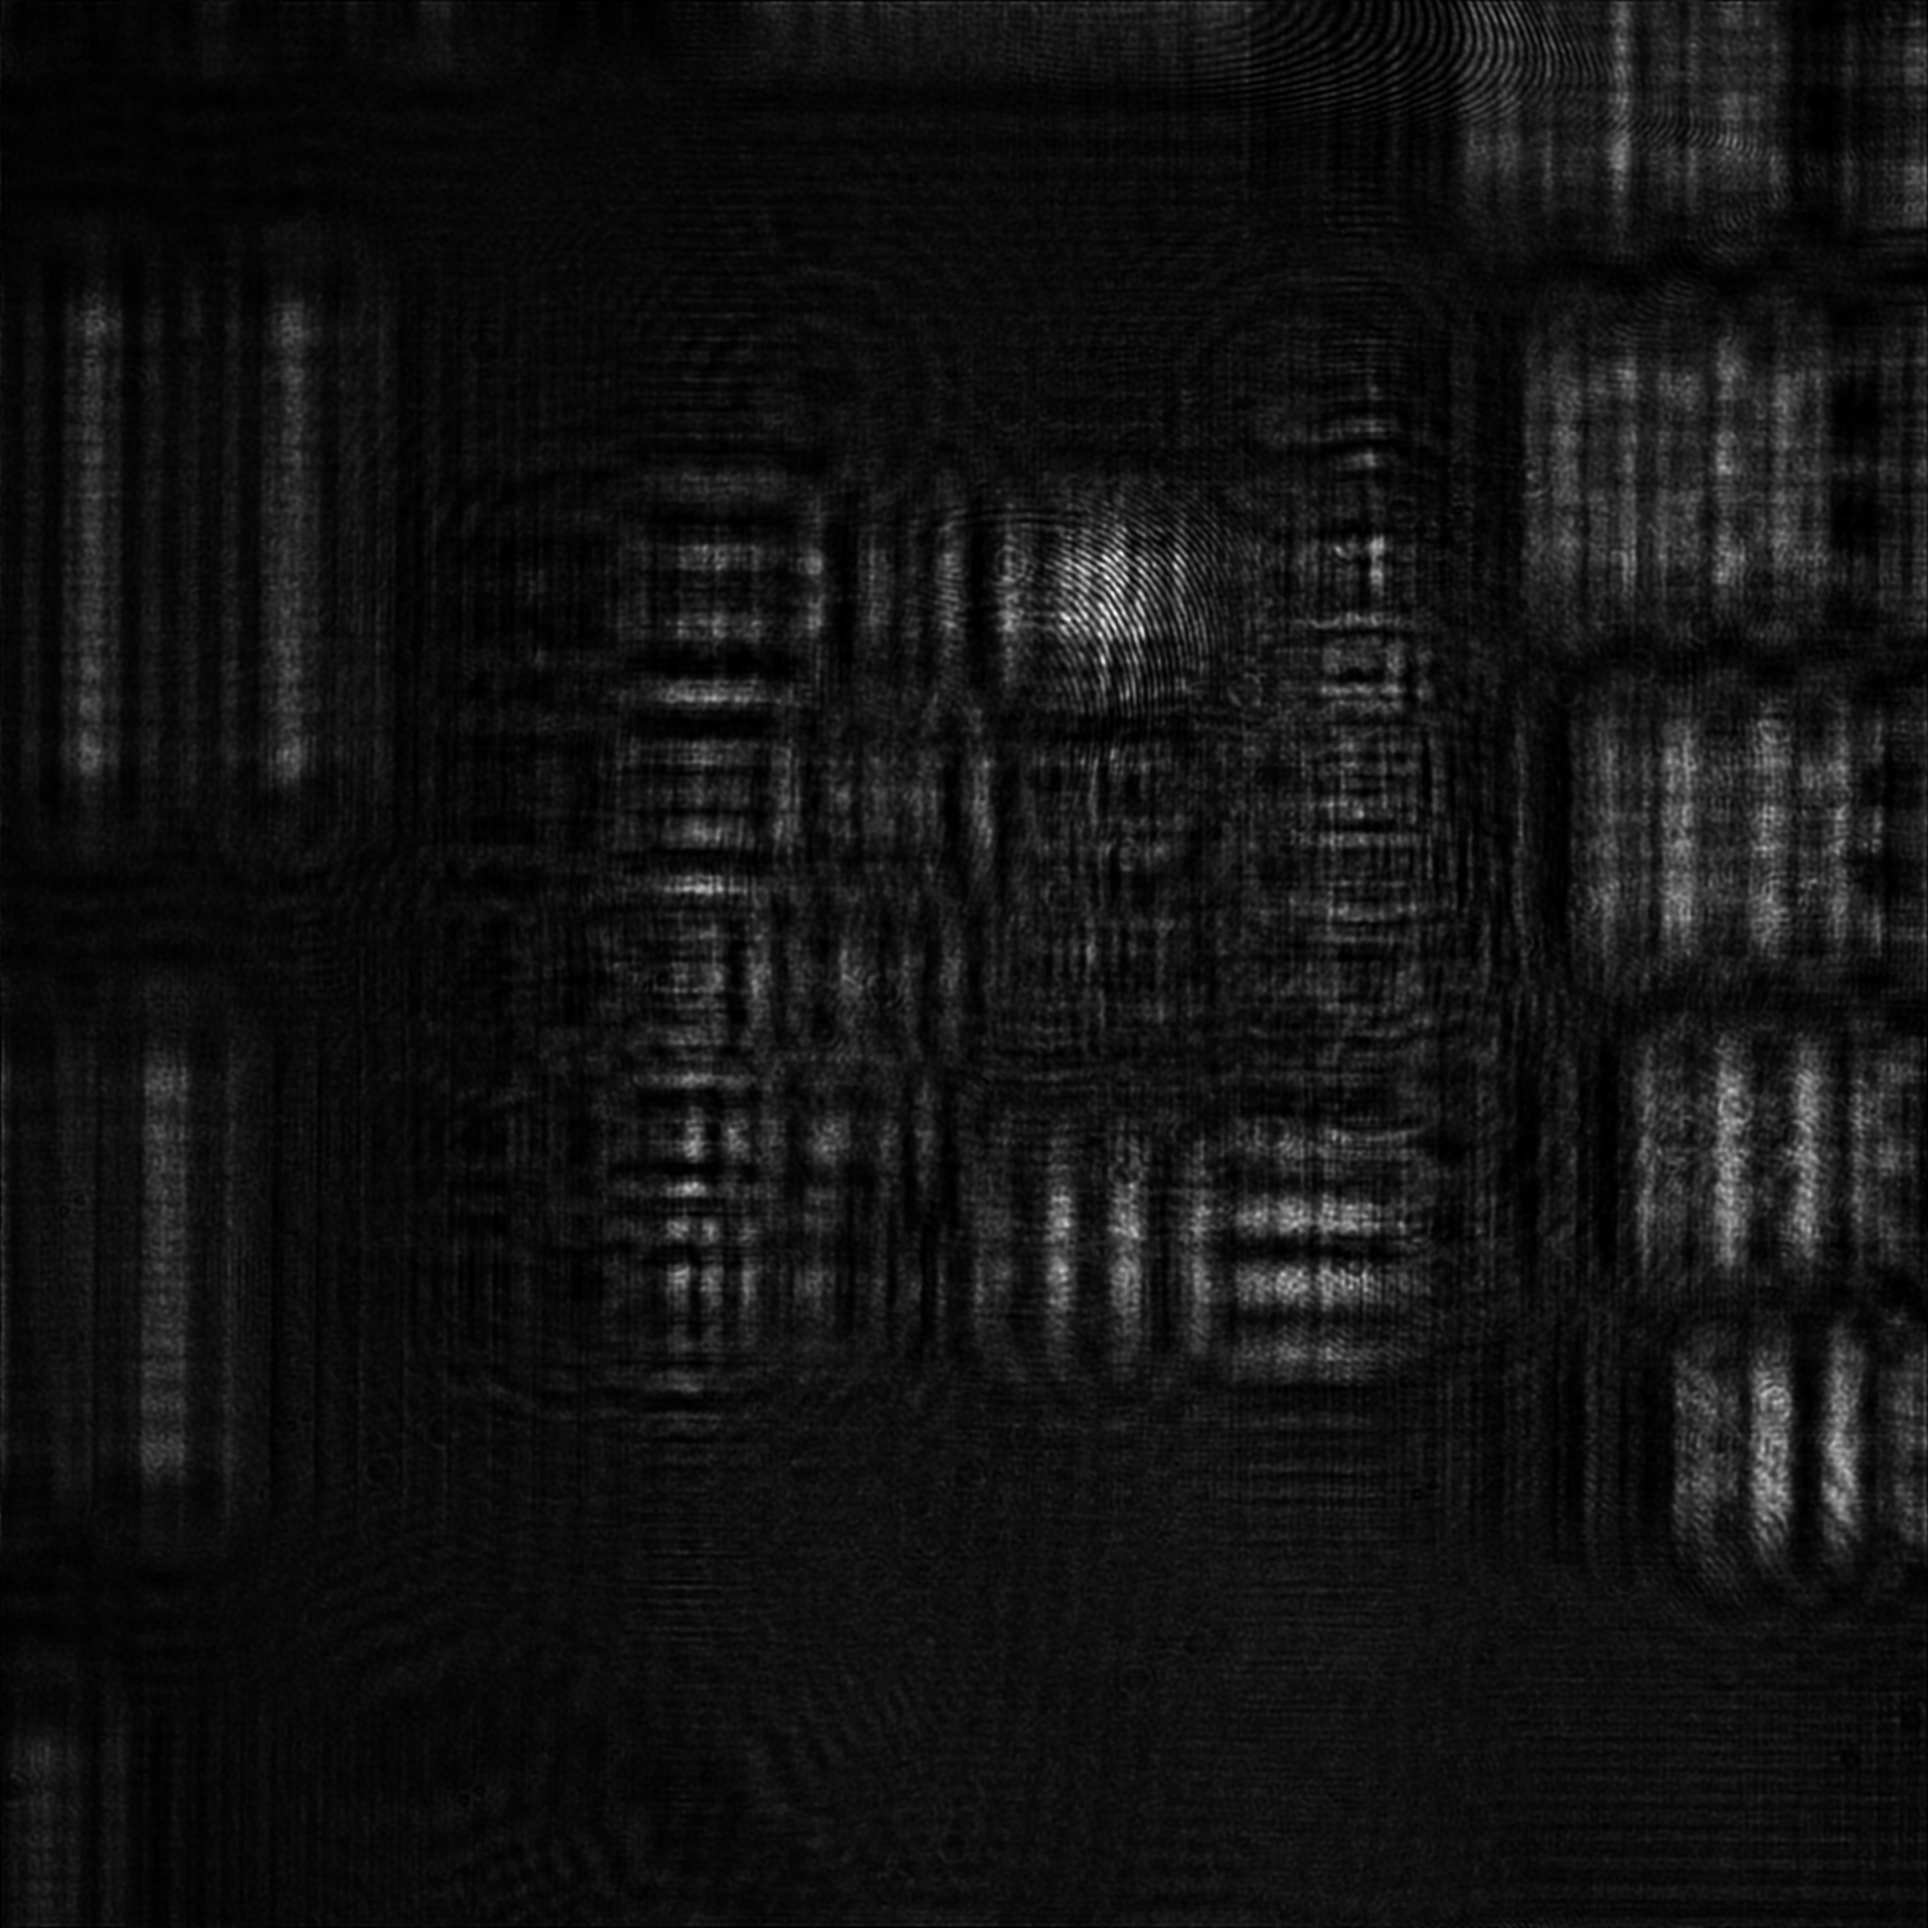
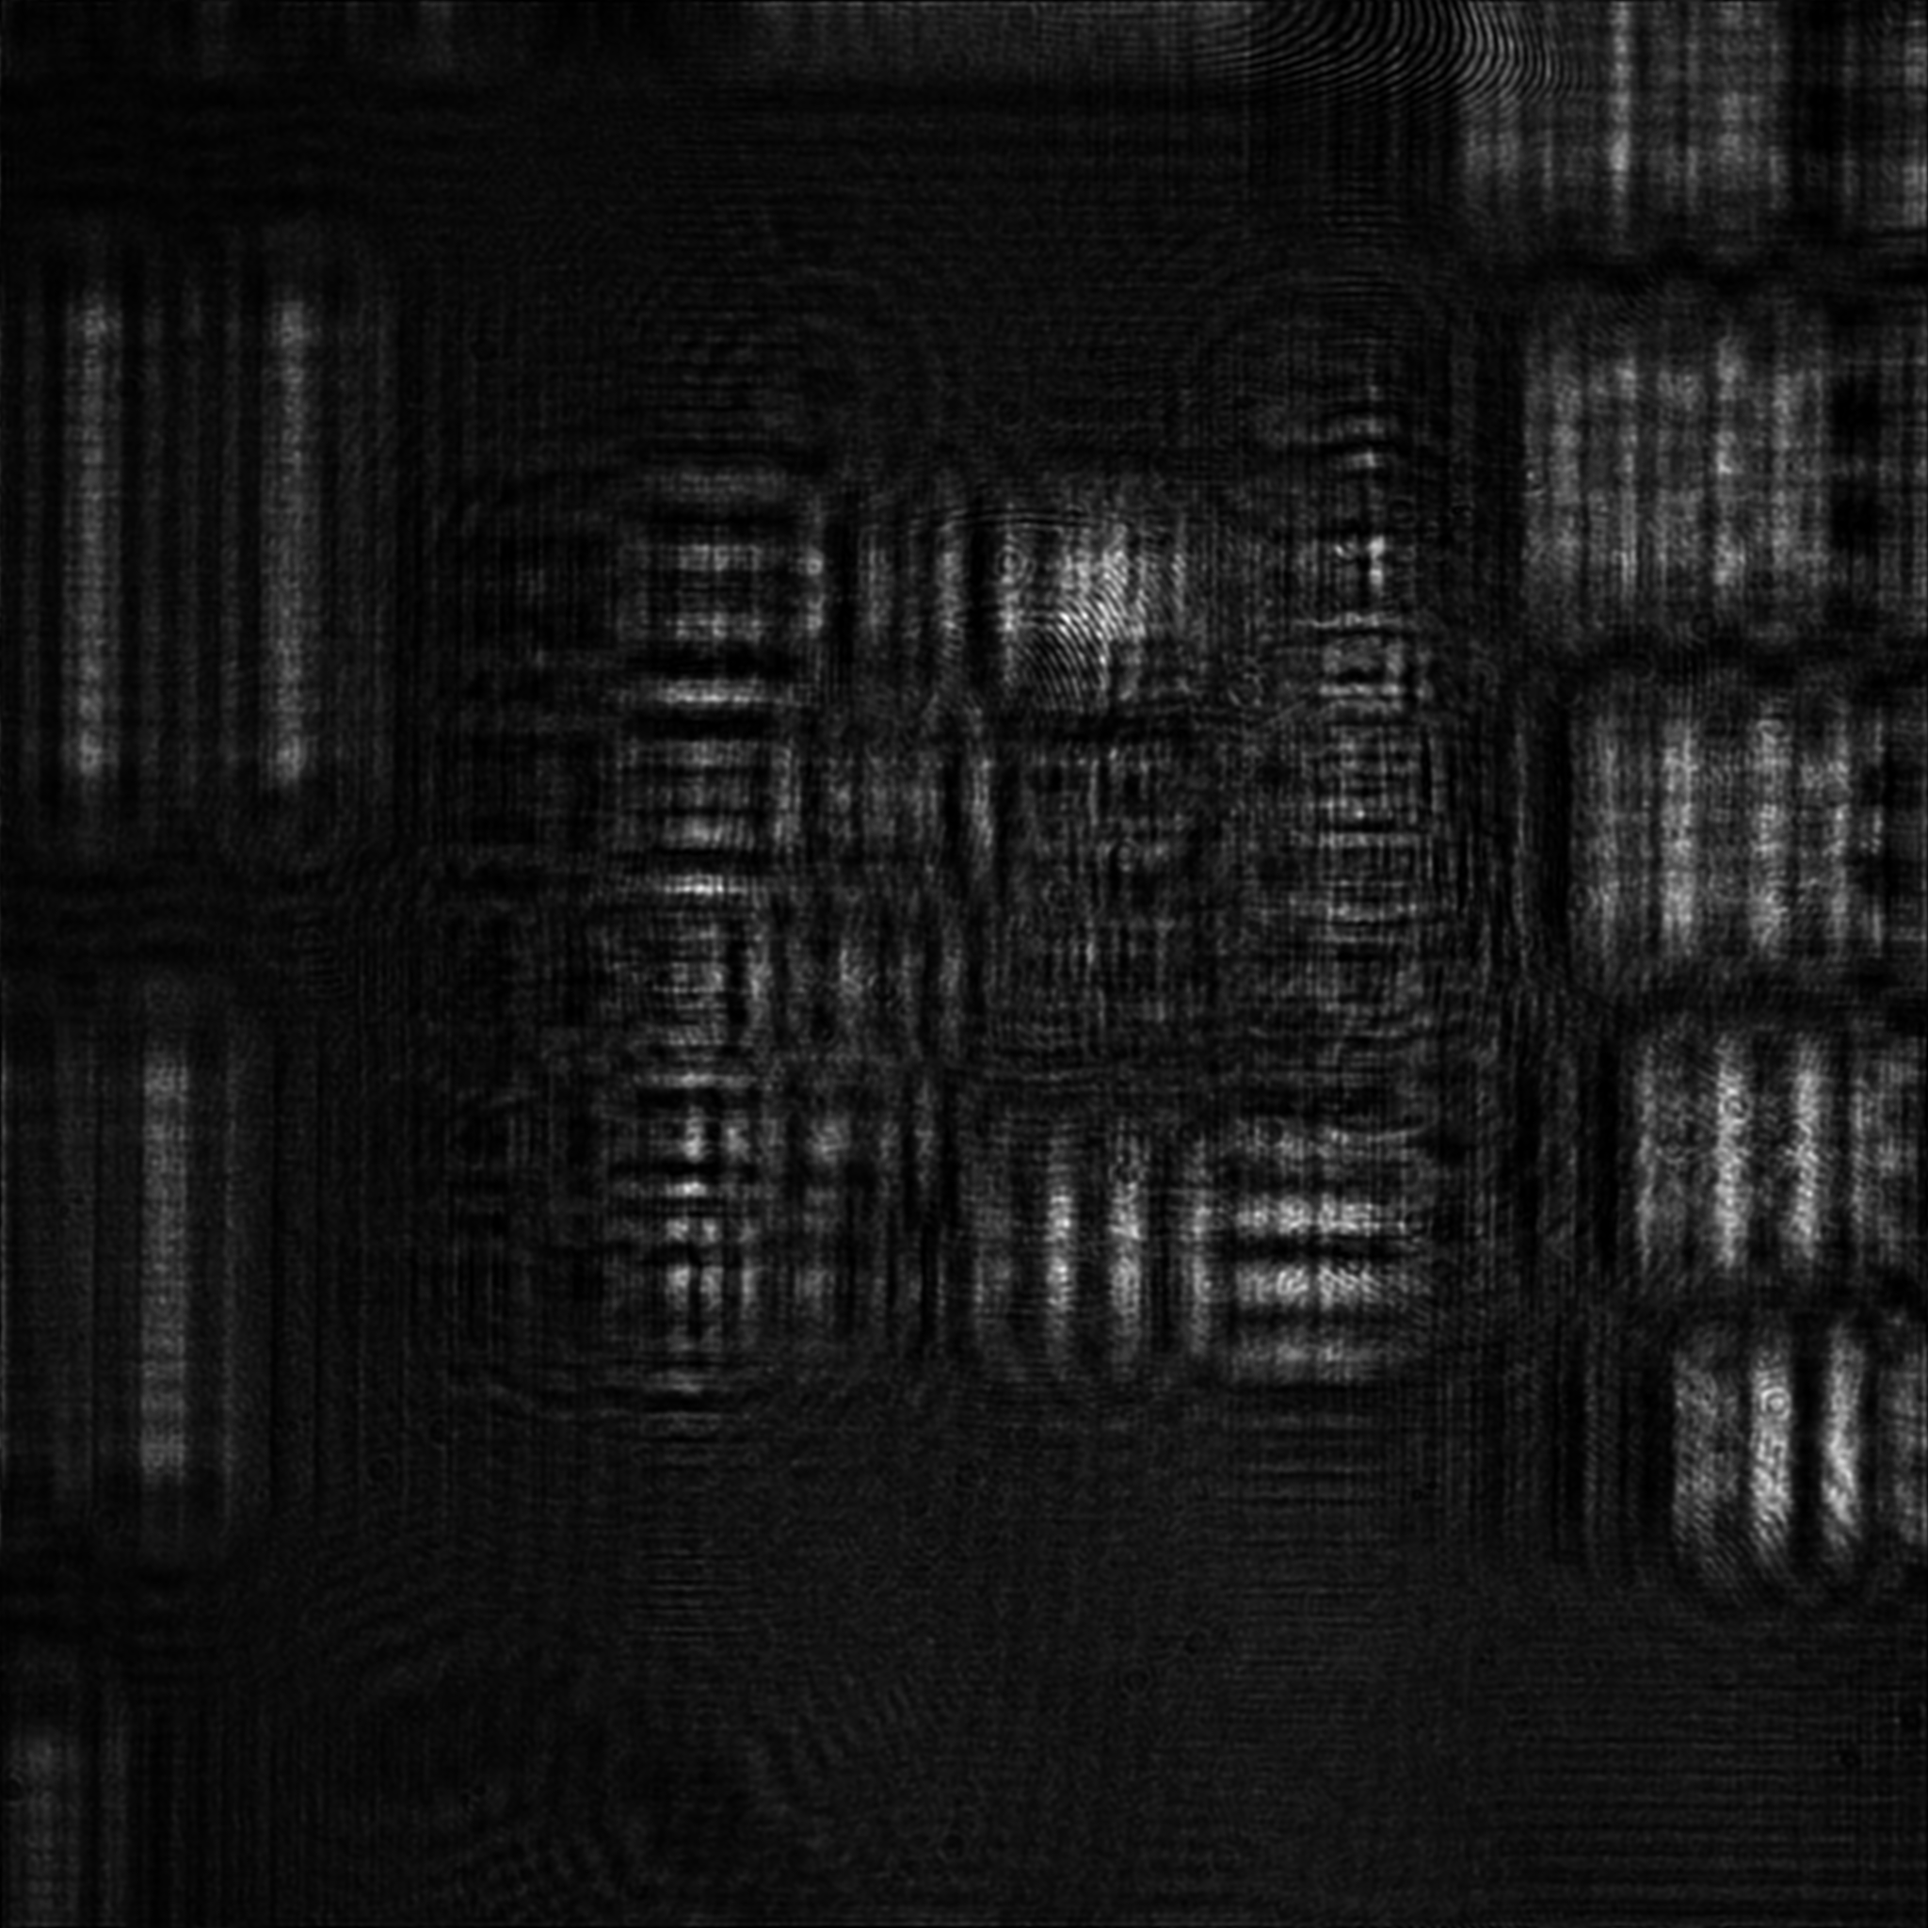
Function to create reference wave added
a new function was added to create the incident reference wave with the angle calculated

diff --git a/Punto 3.py b/Punto 3.py
@@ -3,7 +3,7 @@ import numpy as np
 import time
 import cv2
 
-def Tmatrix(w_length, deltax0, deltay0, M,N):
+def Tmatrix(deltax0, deltay0, M,N):
     """
     Incident wave and transmittance function
     In this case: plane wave and circular aperture 
@@ -20,6 +20,24 @@ def Tmatrix(w_length, deltax0, deltay0, M,N):
 
     return T_matrix
 
+def Ref(w_length, deltax0, deltay0, M,N):
+    """
+    Reference wave
+    """
+    x=np.arange(-M,M)
+    y=np.arange(-N,N)
+    x,y=np.meshgrid(x,y)
+
+    k= 2*np.pi/w_length
+    thetax=0.068284  #3.9124 degrees
+    thetay=0.04336   #2.48449 degrees
+
+    Ref=np.exp(1j*k*deltax0*x*np.sin(thetax))*np.exp(-1j*k*deltay0*y*np.sin(thetay))
+
+    R=np.fft.fft2(Ref)
+    R=np.fft.fftshift(R)
+
+    return R
 """
 U=incident wave
 z=entrance plane to detector plane distance
@@ -37,8 +55,8 @@ M=1024 #Number of pixels=M*2
 N=1024 #Number of pixels=N*2
 z=2500  #(2.5mm)
 w_length=0.633   #All units in um
-deltax0=2.5 
-deltay0=2.5
+deltax0=3.18 
+deltay0=3.18
 
 deltax=(w_length*z)/(2*M*deltax0)
 deltay=(w_length*z)/(2*M*deltay0)
@@ -47,17 +65,21 @@ print("deltax:",deltax)
 print("deltay:",deltay)
 tic=time.time()
 
-T=Tmatrix(w_length, deltax0, deltay0, M,N)
+T=Tmatrix(deltax0, deltay0, M,N)
 holo= cv2.imread("Hologram.tiff",0)
 FTholo= np.fft.fft2(holo)
 FTholo= np.fft.fftshift(FTholo)
-Iholo=np.log(np.abs(FTholo)**2)
 Filter=T*FTholo
-IFilter=np.log((np.abs(Filter)**2)+0.0001)
 InvFT=np.fft.ifft2(Filter)
+R=Ref(w_length, deltax0, deltay0, M,N)
+
+Iholo=np.log(np.abs(FTholo)**2)
+IFilter=np.log((np.abs(Filter)**2)+0.0001)
 IInvFT=np.abs(InvFT)**2
+IR=np.log(np.abs(R)**2)
 
 plt.imsave("Transmittance.png",T, cmap='gray') 
 plt.imsave("Fourier Transform Hologram.png",Iholo, cmap='gray')   
 plt.imsave("FT Hologram filtered.png",IFilter, cmap='gray')  
-plt.imsave("Inverse FT filtered.png",IInvFT, cmap='gray')   
+plt.imsave("Inverse FT filtered.png",IInvFT, cmap='gray')  
+plt.imsave("FT Reference.png",IR, cmap='gray')   
